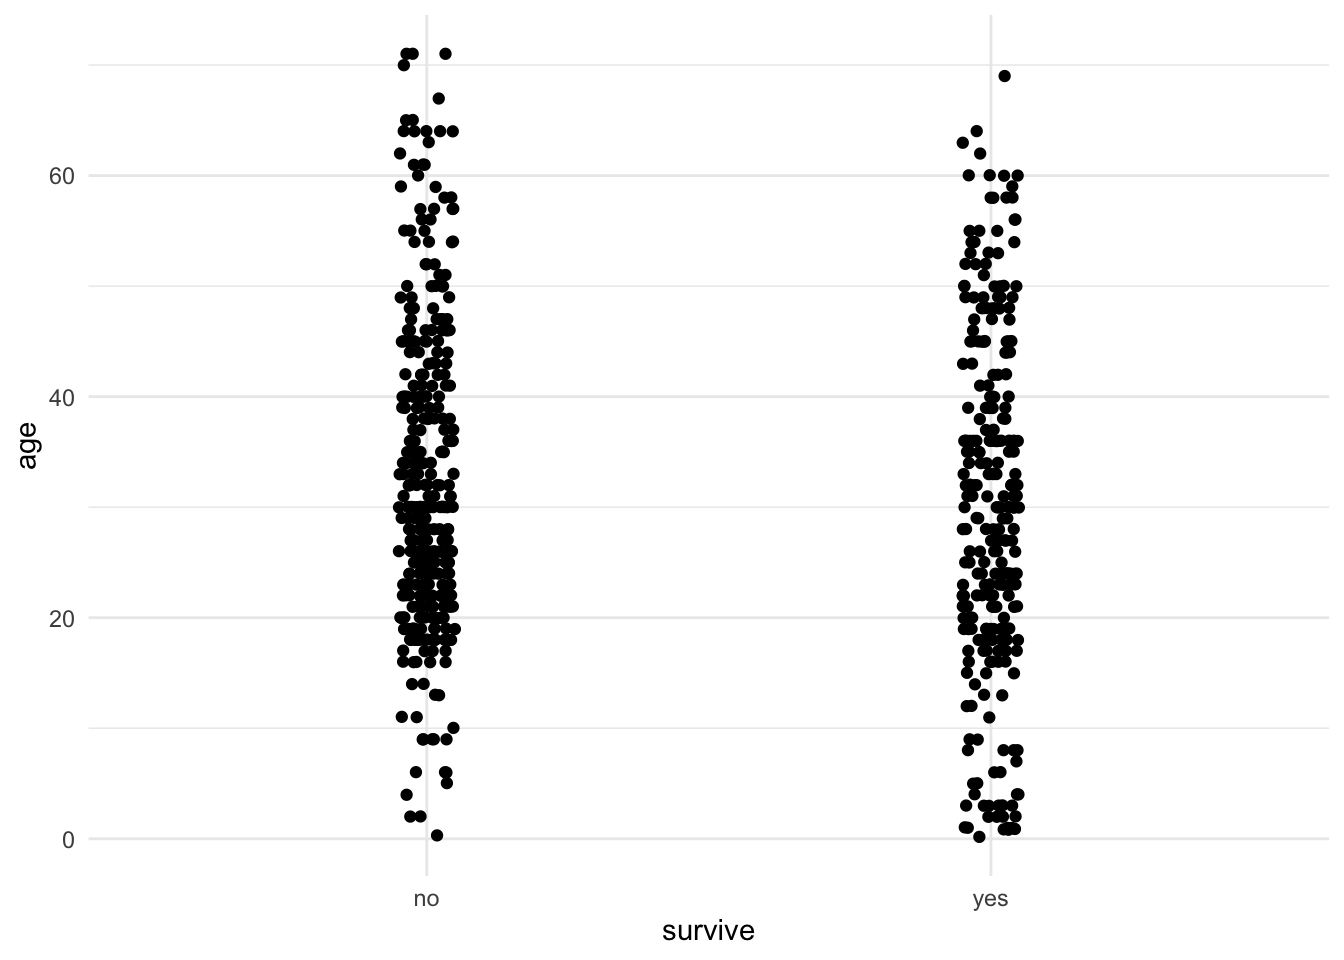
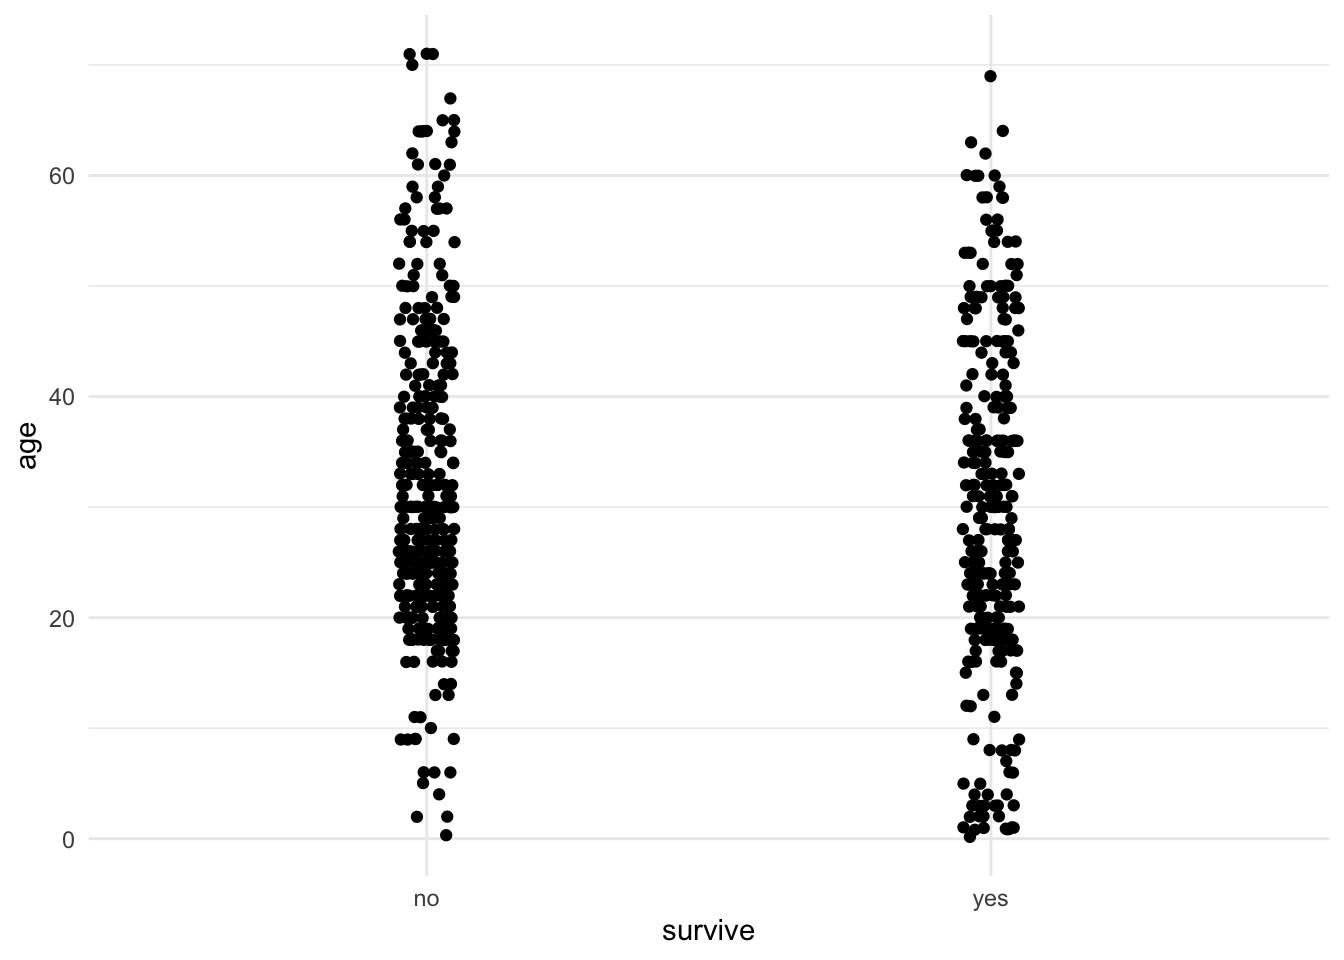
fix links in index and menu

diff --git a/RLabs/02_R_tutorial_Tabular_data.html b/RLabs/02_R_tutorial_Tabular_data.html
@@ -467,13 +467,13 @@ div.tocify {
   </a>
   <ul class="dropdown-menu" role="menu">
     <li>
-      <a href="R_tutorial_Loading_R_and_RStudio.html">0. Loading R and RStudio</a>
+      <a href="00_R_tutorial_Loading_R_and_RStudio.html">0. Loading R and RStudio</a>
     </li>
     <li>
-      <a href="R_tutorial_Intro_to_R.html">1. Intro to R</a>
+      <a href="01_R_tutorial_Intro_to_R.html">1. Intro to R</a>
     </li>
     <li>
-      <a href="R_tutorial_Tabular_data.html">2. Tabular data</a>
+      <a href="02_R_tutorial_Tabular_data.html">2. Tabular data</a>
     </li>
     <li>
       <a href="R_tutorial_Graphics.html">3. Graphics</a>
@@ -790,16 +790,6 @@ tidyverse. Before using the functions in these packages, we need to load
 tidyverse. We do this with the <code>library()</code> function. In the
 console, enter this:</p>
 <div class="sourceCode" id="cb1"><pre class="sourceCode r"><code class="sourceCode r"><span id="cb1-1"><a href="#cb1-1" tabindex="-1"></a><span class="fu">library</span>(tidyverse)</span></code></pre></div>
-<pre><code>## ── Attaching core tidyverse packages ──────────────────────── tidyverse 2.0.0 ──
-## ✔ dplyr     1.1.4     ✔ readr     2.1.5
-## ✔ forcats   1.0.0     ✔ stringr   1.5.1
-## ✔ ggplot2   3.5.2     ✔ tibble    3.3.0
-## ✔ lubridate 1.9.4     ✔ tidyr     1.3.1
-## ✔ purrr     1.1.0     
-## ── Conflicts ────────────────────────────────────────── tidyverse_conflicts() ──
-## ✖ dplyr::filter() masks stats::filter()
-## ✖ dplyr::lag()    masks stats::lag()
-## ℹ Use the conflicted package (&lt;http://conflicted.r-lib.org/&gt;) to force all conflicts to become errors</code></pre>
 <p>If the <code>tidyverse</code> was is installed on your computer
 correctly, the computer will show a brief status message and then will
 be ready to go. If the package is not installed, it will give you an
@@ -848,7 +838,7 @@ survived the accident or not.</p>
 <p>To import a CSV file into R, use the <code>read.csv()</code> function
 as in the following command. (This assumes that you have set the working
 directory to <code>ABDLabs</code>, as we described above.)</p>
-<div class="sourceCode" id="cb3"><pre class="sourceCode r"><code class="sourceCode r"><span id="cb3-1"><a href="#cb3-1" tabindex="-1"></a>titanicData <span class="ot">&lt;-</span> <span class="fu">read.csv</span>(<span class="st">&quot;DataForLabs/titanic.csv&quot;</span>, <span class="at">stringsAsFactors =</span> <span class="cn">TRUE</span>)</span></code></pre></div>
+<div class="sourceCode" id="cb2"><pre class="sourceCode r"><code class="sourceCode r"><span id="cb2-1"><a href="#cb2-1" tabindex="-1"></a>titanicData <span class="ot">&lt;-</span> <span class="fu">read.csv</span>(<span class="st">&quot;DataForLabs/titanic.csv&quot;</span>, <span class="at">stringsAsFactors =</span> <span class="cn">TRUE</span>)</span></code></pre></div>
 <p>This looks for the file called <code>titanic.csv</code> in the folder
 called <code>DataForLabs.</code> Here we have given the name
 <code>titanicData</code> to the object in R that contains all this
@@ -879,7 +869,7 @@ tells the computer where to look for the file.</p>
 <code>read.csv()</code> to look for the file outside your current
 working directory. Reading a file from any location can be done with
 <code>read.csv()</code> like this:</p>
-<div class="sourceCode" id="cb4"><pre class="sourceCode r"><code class="sourceCode r"><span id="cb4-1"><a href="#cb4-1" tabindex="-1"></a>titanicData <span class="ot">&lt;-</span> <span class="fu">read.csv</span>(<span class="st">&quot;/Users/whitlock/Desktop/ABDLabs/DataForLabs/titanic.csv&quot;</span>, <span class="at">stringsAsFactors =</span> <span class="cn">TRUE</span>)</span></code></pre></div>
+<div class="sourceCode" id="cb3"><pre class="sourceCode r"><code class="sourceCode r"><span id="cb3-1"><a href="#cb3-1" tabindex="-1"></a>titanicData <span class="ot">&lt;-</span> <span class="fu">read.csv</span>(<span class="st">&quot;/Users/whitlock/Desktop/ABDLabs/DataForLabs/titanic.csv&quot;</span>, <span class="at">stringsAsFactors =</span> <span class="cn">TRUE</span>)</span></code></pre></div>
 <p><br></p>
 </div>
 </div>
@@ -892,30 +882,30 @@ the characteristics of the data, the <code>summary()</code> and
 <h3><code>summary()</code></h3>
 <p>This function will list all the variables and some summary statistics
 for each variable.</p>
-<div class="sourceCode" id="cb5"><pre class="sourceCode r"><code class="sourceCode r"><span id="cb5-1"><a href="#cb5-1" tabindex="-1"></a><span class="fu">summary</span>(titanicData)</span></code></pre></div>
-<pre><code>##  passenger_class                        name           age         
-##  1st:322         Carlsson,MrFransOlof     :   2   Min.   : 0.1667  
-##  2nd:280         Connolly,MissKate        :   2   1st Qu.:21.0000  
-##  3rd:711         Kelly,MrJames            :   2   Median :30.0000  
-##                  Abbing,MrAnthony         :   1   Mean   :31.1942  
-##                  Abbott,MasterEugeneJoseph:   1   3rd Qu.:41.0000  
-##                  Abbott,MrRossmoreEdward  :   1   Max.   :71.0000  
-##                  (Other)                  :1304   NA&#39;s   :680      
-##         embarked            home_destination     sex      survive  
-##             :493                    :558     female:463   no :864  
-##  Cherbourg  :202   NewYork,NY       : 65     male  :850   yes:449  
-##  Queenstown : 45   London           : 14                           
-##  Southampton:573   Montreal,PQ      : 10                           
-##                    Cornwall/Akron,OH:  9                           
-##                    Paris,France     :  9                           
-##                    (Other)          :648</code></pre>
+<div class="sourceCode" id="cb4"><pre class="sourceCode r"><code class="sourceCode r"><span id="cb4-1"><a href="#cb4-1" tabindex="-1"></a><span class="fu">summary</span>(titanicData)</span></code></pre></div>
+<pre><code>##  passenger_class                        name           age                 embarked  
+##  1st:322         Carlsson,MrFransOlof     :   2   Min.   : 0.1667              :493  
+##  2nd:280         Connolly,MissKate        :   2   1st Qu.:21.0000   Cherbourg  :202  
+##  3rd:711         Kelly,MrJames            :   2   Median :30.0000   Queenstown : 45  
+##                  Abbing,MrAnthony         :   1   Mean   :31.1942   Southampton:573  
+##                  Abbott,MasterEugeneJoseph:   1   3rd Qu.:41.0000                    
+##                  Abbott,MrRossmoreEdward  :   1   Max.   :71.0000                    
+##                  (Other)                  :1304   NA&#39;s   :680                        
+##           home_destination     sex      survive  
+##                   :558     female:463   no :864  
+##  NewYork,NY       : 65     male  :850   yes:449  
+##  London           : 14                           
+##  Montreal,PQ      : 10                           
+##  Cornwall/Akron,OH:  9                           
+##  Paris,France     :  9                           
+##  (Other)          :648</code></pre>
 </div>
 <div id="view" class="section level3">
 <h3><code>View()</code></h3>
 <p>The <code>View()</code> function is a nice way to see the data in a
 spreadsheet-like format. To see the data in <code>titanicData</code>
 with <code>View()</code>, run the following command:</p>
-<div class="sourceCode" id="cb7"><pre class="sourceCode r"><code class="sourceCode r"><span id="cb7-1"><a href="#cb7-1" tabindex="-1"></a><span class="fu">View</span>(titanicData)</span></code></pre></div>
+<div class="sourceCode" id="cb6"><pre class="sourceCode r"><code class="sourceCode r"><span id="cb6-1"><a href="#cb6-1" tabindex="-1"></a><span class="fu">View</span>(titanicData)</span></code></pre></div>
 <p><img src="formula_summaries/VIew_function_titanicData.png"
 width="700" /></p>
 <p>Again, note that the <code>titanicData</code> object has 7 columns
@@ -952,7 +942,7 @@ by itself. We write the name of the data set, followed by a
 <code>$</code>, and then the name of the variable.</p>
 <p>For example, to show a list of the age of all the passengers on the
 Titanic, use</p>
-<div class="sourceCode" id="cb8"><pre class="sourceCode r"><code class="sourceCode r"><span id="cb8-1"><a href="#cb8-1" tabindex="-1"></a>titanicData<span class="sc">$</span>age</span></code></pre></div>
+<div class="sourceCode" id="cb7"><pre class="sourceCode r"><code class="sourceCode r"><span id="cb7-1"><a href="#cb7-1" tabindex="-1"></a>titanicData<span class="sc">$</span>age</span></code></pre></div>
 <p>This will show a vector that has all the values for this variable
 age, one for each individual in the data set.</p>
 <p><br></p>
@@ -965,24 +955,24 @@ easiest way to do this is to simply assign a new vector to a new column
 name, using the <code>$</code>.</p>
 <p>For example, to add the log of age as a column in the
 <code>titanicData</code> data frame, we can write</p>
-<div class="sourceCode" id="cb9"><pre class="sourceCode r"><code class="sourceCode r"><span id="cb9-1"><a href="#cb9-1" tabindex="-1"></a>titanicData<span class="sc">$</span>log_age <span class="ot">&lt;-</span> <span class="fu">log</span>(titanicData<span class="sc">$</span>age)</span></code></pre></div>
+<div class="sourceCode" id="cb8"><pre class="sourceCode r"><code class="sourceCode r"><span id="cb8-1"><a href="#cb8-1" tabindex="-1"></a>titanicData<span class="sc">$</span>log_age <span class="ot">&lt;-</span> <span class="fu">log</span>(titanicData<span class="sc">$</span>age)</span></code></pre></div>
 <p>You can run the command <code>head(titanicData)</code> to see that
 <code>log_age</code> is now a column in <code>titanicData</code>.</p>
-<div class="sourceCode" id="cb10"><pre class="sourceCode r"><code class="sourceCode r"><span id="cb10-1"><a href="#cb10-1" tabindex="-1"></a><span class="fu">head</span>(titanicData)</span></code></pre></div>
-<pre><code>##   passenger_class                                      name     age    embarked
-## 1             1st                 Allen,MissElisabethWalton 29.0000 Southampton
-## 2             1st                  Allison,MissHelenLoraine  2.0000 Southampton
-## 3             1st           Allison,MrHudsonJoshuaCreighton 30.0000 Southampton
-## 4             1st Allison,MrsHudsonJ.C.(BessieWaldoDaniels) 25.0000 Southampton
-## 5             1st                Allison,MasterHudsonTrevor  0.9167 Southampton
-## 6             1st                          Anderson,MrHarry 47.0000 Southampton
-##              home_destination    sex survive     log_age
-## 1                  StLouis,MO female     yes  3.36729583
-## 2 Montreal,PQ/Chesterville,ON female      no  0.69314718
-## 3 Montreal,PQ/Chesterville,ON   male      no  3.40119738
-## 4 Montreal,PQ/Chesterville,ON female      no  3.21887582
-## 5 Montreal,PQ/Chesterville,ON   male     yes -0.08697501
-## 6                  NewYork,NY   male     yes  3.85014760</code></pre>
+<div class="sourceCode" id="cb9"><pre class="sourceCode r"><code class="sourceCode r"><span id="cb9-1"><a href="#cb9-1" tabindex="-1"></a><span class="fu">head</span>(titanicData)</span></code></pre></div>
+<pre><code>##   passenger_class                                      name     age    embarked            home_destination
+## 1             1st                 Allen,MissElisabethWalton 29.0000 Southampton                  StLouis,MO
+## 2             1st                  Allison,MissHelenLoraine  2.0000 Southampton Montreal,PQ/Chesterville,ON
+## 3             1st           Allison,MrHudsonJoshuaCreighton 30.0000 Southampton Montreal,PQ/Chesterville,ON
+## 4             1st Allison,MrsHudsonJ.C.(BessieWaldoDaniels) 25.0000 Southampton Montreal,PQ/Chesterville,ON
+## 5             1st                Allison,MasterHudsonTrevor  0.9167 Southampton Montreal,PQ/Chesterville,ON
+## 6             1st                          Anderson,MrHarry 47.0000 Southampton                  NewYork,NY
+##      sex survive     log_age
+## 1 female     yes  3.36729583
+## 2 female      no  0.69314718
+## 3   male      no  3.40119738
+## 4 female      no  3.21887582
+## 5   male     yes -0.08697501
+## 6   male     yes  3.85014760</code></pre>
 <p>The <code>head()</code> function shows the first 6 rows of a data
 frame or tibble, which is a handy way to check that you understand the
 structure of the data and/or that you have added the new column
@@ -1005,7 +995,7 @@ functions in the tidyverse packages, including
 and an individual is female if that variable has value
 <code>female</code>. We can create a new data frame that includes only
 the data from females with the following command:</p>
-<div class="sourceCode" id="cb12"><pre class="sourceCode r"><code class="sourceCode r"><span id="cb12-1"><a href="#cb12-1" tabindex="-1"></a>titanicDataFemalesOnly <span class="ot">&lt;-</span> <span class="fu">filter</span>(titanicData, sex <span class="sc">==</span> <span class="st">&quot;female&quot;</span>)</span></code></pre></div>
+<div class="sourceCode" id="cb11"><pre class="sourceCode r"><code class="sourceCode r"><span id="cb11-1"><a href="#cb11-1" tabindex="-1"></a>titanicDataFemalesOnly <span class="ot">&lt;-</span> <span class="fu">filter</span>(titanicData, sex <span class="sc">==</span> <span class="st">&quot;female&quot;</span>)</span></code></pre></div>
 <p>This new data frame will include all the same columns as the original
 <code>titanicData</code>, but it will only include the rows for which
 the sex was <code>female</code>.</p>

diff --git a/RLabs/index.html b/RLabs/index.html
@@ -280,13 +280,13 @@ $(document).ready(function () {
   </a>
   <ul class="dropdown-menu" role="menu">
     <li>
-      <a href="R_tutorial_Loading_R_and_RStudio.html">0. Loading R and RStudio</a>
+      <a href="00_R_tutorial_Loading_R_and_RStudio.html">0. Loading R and RStudio</a>
     </li>
     <li>
-      <a href="R_tutorial_Intro_to_R.html">1. Intro to R</a>
+      <a href="01_R_tutorial_Intro_to_R.html">1. Intro to R</a>
     </li>
     <li>
-      <a href="R_tutorial_Tabular_data.html">2. Tabular data</a>
+      <a href="02_R_tutorial_Tabular_data.html">2. Tabular data</a>
     </li>
     <li>
       <a href="R_tutorial_Graphics.html">3. Graphics</a>
@@ -408,10 +408,11 @@ labs) may require working in a group environment.</p>
 <p><br></p>
 <div id="r-tutorials-by-topic" class="section level2">
 <h2>R tutorials by topic</h2>
-<p><a href="R_tutorial_Loading_R_and_RStudio.html">0. Loading R and
+<p><a href="00_R_tutorial_Loading_R_and_RStudio.html">0. Loading R and
 RStudio</a></p>
-<p><a href="R_tutorial_Intro_to_R.html">1. Intro to R</a></p>
-<p><a href="R_tutorial_Tabular_data.html">2. Tabular data in R</a></p>
+<p><a href="01_R_tutorial_Intro_to_R.html">1. Intro to R</a></p>
+<p><a href="02_R_tutorial_Tabular_data.html">2. Tabular data in
+R</a></p>
 <p><a href="R_tutorial_Graphics.html">3. Graphics</a></p>
 <p><a href="R_tutorial_Making_data_files.html">4a. Making data files for
 R</a></p>

diff --git a/RLabs/R_tutorial_Normal_and_sample_means.html b/RLabs/R_tutorial_Normal_and_sample_means.html
@@ -467,13 +467,13 @@ div.tocify {
   </a>
   <ul class="dropdown-menu" role="menu">
     <li>
-      <a href="R_tutorial_Loading_R_and_RStudio.html">0. Loading R and RStudio</a>
+      <a href="00_R_tutorial_Loading_R_and_RStudio.html">0. Loading R and RStudio</a>
     </li>
     <li>
-      <a href="R_tutorial_Intro_to_R.html">1. Intro to R</a>
+      <a href="01_R_tutorial_Intro_to_R.html">1. Intro to R</a>
     </li>
     <li>
-      <a href="R_tutorial_Tabular_data.html">2. Tabular data</a>
+      <a href="02_R_tutorial_Tabular_data.html">2. Tabular data</a>
     </li>
     <li>
       <a href="R_tutorial_Graphics.html">3. Graphics</a>
@@ -684,8 +684,8 @@ distribution</p>
 numbers drawn from a normal distribution with mean 13 and standard
 deviation 4:</p>
 <div class="sourceCode" id="cb6"><pre class="sourceCode r"><code class="sourceCode r"><span id="cb6-1"><a href="#cb6-1" tabindex="-1"></a><span class="fu">rnorm</span>(<span class="at">n =</span> <span class="dv">20</span>, <span class="at">mean =</span> <span class="dv">13</span>, <span class="at">sd =</span> <span class="dv">4</span>)</span></code></pre></div>
-<pre><code>##  [1] 15.069868 15.709834  5.205122 17.342268 12.031558 18.926071 12.634741 12.578918  9.356955 13.591530
-## [11] 14.714557 11.570335 11.588282 15.089399 11.518081 14.446039 11.931864  9.408842 19.402135 14.019974</code></pre>
+<pre><code>##  [1] 10.847327 16.660806 10.475117 14.150716 10.335531 15.177059 21.748991 10.313146 13.661950 14.935631
+## [11] 16.741323 11.362581 14.842819  8.969095 12.186229 13.807421 15.981822  8.645132 12.803302 16.446147</code></pre>
 <p>Let’s look at a QQ plot generated from 100 numbers randomly drawn
 from a normal distribution:</p>
 <div class="sourceCode" id="cb8"><pre class="sourceCode r"><code class="sourceCode r"><span id="cb8-1"><a href="#cb8-1" tabindex="-1"></a>normal_vector <span class="ot">&lt;-</span> <span class="fu">rnorm</span>(<span class="at">n =</span> <span class="dv">100</span>, <span class="at">mean =</span> <span class="dv">13</span>, <span class="at">sd =</span> <span class="dv">4</span>)</span>

diff --git a/RLabs/R_tutorial_Sampling.html b/RLabs/R_tutorial_Sampling.html
@@ -467,13 +467,13 @@ div.tocify {
   </a>
   <ul class="dropdown-menu" role="menu">
     <li>
-      <a href="R_tutorial_Loading_R_and_RStudio.html">0. Loading R and RStudio</a>
+      <a href="00_R_tutorial_Loading_R_and_RStudio.html">0. Loading R and RStudio</a>
     </li>
     <li>
-      <a href="R_tutorial_Intro_to_R.html">1. Intro to R</a>
+      <a href="01_R_tutorial_Intro_to_R.html">1. Intro to R</a>
     </li>
     <li>
-      <a href="R_tutorial_Tabular_data.html">2. Tabular data</a>
+      <a href="02_R_tutorial_Tabular_data.html">2. Tabular data</a>
     </li>
     <li>
       <a href="R_tutorial_Graphics.html">3. Graphics</a>
@@ -674,7 +674,7 @@ randomly chooses integers from a given range. To randomly sample 5
 individuals from 25 possibilities, we can use:</li>
 </ol>
 <div class="sourceCode" id="cb1"><pre class="sourceCode r"><code class="sourceCode r"><span id="cb1-1"><a href="#cb1-1" tabindex="-1"></a><span class="fu">sample.int</span>(<span class="at">n =</span> <span class="dv">25</span>, <span class="at">size =</span> <span class="dv">5</span>)</span></code></pre></div>
-<pre><code>## [1]  7 15 11  8 18</code></pre>
+<pre><code>## [1]  1 14 18 10 22</code></pre>
 <p>This tells R to give us a set of 5 numbers randomly chosen from the
 integers 1 to 25. (When you run this line you will almost certainly get
 a different output. It is randomly choosing numbers, so we expect

diff --git a/RLabs/00_R_tutorial_Loading_R_and_RStudio.html b/RLabs/00_R_tutorial_Loading_R_and_RStudio.html
@@ -362,13 +362,13 @@ div.tocify {
   </a>
   <ul class="dropdown-menu" role="menu">
     <li>
-      <a href="R_tutorial_Loading_R_and_RStudio.html">0. Loading R and RStudio</a>
+      <a href="00_R_tutorial_Loading_R_and_RStudio.html">0. Loading R and RStudio</a>
     </li>
     <li>
-      <a href="R_tutorial_Intro_to_R.html">1. Intro to R</a>
+      <a href="01_R_tutorial_Intro_to_R.html">1. Intro to R</a>
     </li>
     <li>
-      <a href="R_tutorial_Tabular_data.html">2. Tabular data</a>
+      <a href="02_R_tutorial_Tabular_data.html">2. Tabular data</a>
     </li>
     <li>
       <a href="R_tutorial_Graphics.html">3. Graphics</a>

diff --git a/RLabs/01_R_tutorial_Intro_to_R.html b/RLabs/01_R_tutorial_Intro_to_R.html
@@ -467,13 +467,13 @@ div.tocify {
   </a>
   <ul class="dropdown-menu" role="menu">
     <li>
-      <a href="R_tutorial_Loading_R_and_RStudio.html">0. Loading R and RStudio</a>
+      <a href="00_R_tutorial_Loading_R_and_RStudio.html">0. Loading R and RStudio</a>
     </li>
     <li>
-      <a href="R_tutorial_Intro_to_R.html">1. Intro to R</a>
+      <a href="01_R_tutorial_Intro_to_R.html">1. Intro to R</a>
     </li>
     <li>
-      <a href="R_tutorial_Tabular_data.html">2. Tabular data</a>
+      <a href="02_R_tutorial_Tabular_data.html">2. Tabular data</a>
     </li>
     <li>
       <a href="R_tutorial_Graphics.html">3. Graphics</a>

diff --git a/RLabs/R_tutorial_ANOVA.html b/RLabs/R_tutorial_ANOVA.html
@@ -467,13 +467,13 @@ div.tocify {
   </a>
   <ul class="dropdown-menu" role="menu">
     <li>
-      <a href="R_tutorial_Loading_R_and_RStudio.html">0. Loading R and RStudio</a>
+      <a href="00_R_tutorial_Loading_R_and_RStudio.html">0. Loading R and RStudio</a>
     </li>
     <li>
-      <a href="R_tutorial_Intro_to_R.html">1. Intro to R</a>
+      <a href="01_R_tutorial_Intro_to_R.html">1. Intro to R</a>
     </li>
     <li>
-      <a href="R_tutorial_Tabular_data.html">2. Tabular data</a>
+      <a href="02_R_tutorial_Tabular_data.html">2. Tabular data</a>
     </li>
     <li>
       <a href="R_tutorial_Graphics.html">3. Graphics</a>

diff --git a/RLabs/R_tutorial_Comparing_means_of_2_groups.html b/RLabs/R_tutorial_Comparing_means_of_2_groups.html
@@ -467,13 +467,13 @@ div.tocify {
   </a>
   <ul class="dropdown-menu" role="menu">
     <li>
-      <a href="R_tutorial_Loading_R_and_RStudio.html">0. Loading R and RStudio</a>
+      <a href="00_R_tutorial_Loading_R_and_RStudio.html">0. Loading R and RStudio</a>
     </li>
     <li>
-      <a href="R_tutorial_Intro_to_R.html">1. Intro to R</a>
+      <a href="01_R_tutorial_Intro_to_R.html">1. Intro to R</a>
     </li>
     <li>
-      <a href="R_tutorial_Tabular_data.html">2. Tabular data</a>
+      <a href="02_R_tutorial_Tabular_data.html">2. Tabular data</a>
     </li>
     <li>
       <a href="R_tutorial_Graphics.html">3. Graphics</a>

diff --git a/RLabs/R_tutorial_Contingency_analysis.html b/RLabs/R_tutorial_Contingency_analysis.html
@@ -467,13 +467,13 @@ div.tocify {
   </a>
   <ul class="dropdown-menu" role="menu">
     <li>
-      <a href="R_tutorial_Loading_R_and_RStudio.html">0. Loading R and RStudio</a>
+      <a href="00_R_tutorial_Loading_R_and_RStudio.html">0. Loading R and RStudio</a>
     </li>
     <li>
-      <a href="R_tutorial_Intro_to_R.html">1. Intro to R</a>
+      <a href="01_R_tutorial_Intro_to_R.html">1. Intro to R</a>
     </li>
     <li>
-      <a href="R_tutorial_Tabular_data.html">2. Tabular data</a>
+      <a href="02_R_tutorial_Tabular_data.html">2. Tabular data</a>
     </li>
     <li>
       <a href="R_tutorial_Graphics.html">3. Graphics</a>

diff --git a/RLabs/R_tutorial_Correlation_Regression.html b/RLabs/R_tutorial_Correlation_Regression.html
@@ -467,13 +467,13 @@ div.tocify {
   </a>
   <ul class="dropdown-menu" role="menu">
     <li>
-      <a href="R_tutorial_Loading_R_and_RStudio.html">0. Loading R and RStudio</a>
+      <a href="00_R_tutorial_Loading_R_and_RStudio.html">0. Loading R and RStudio</a>
     </li>
     <li>
-      <a href="R_tutorial_Intro_to_R.html">1. Intro to R</a>
+      <a href="01_R_tutorial_Intro_to_R.html">1. Intro to R</a>
     </li>
     <li>
-      <a href="R_tutorial_Tabular_data.html">2. Tabular data</a>
+      <a href="02_R_tutorial_Tabular_data.html">2. Tabular data</a>
     </li>
     <li>
       <a href="R_tutorial_Graphics.html">3. Graphics</a>

diff --git a/RLabs/R_tutorial_Describing_data.html b/RLabs/R_tutorial_Describing_data.html
@@ -467,13 +467,13 @@ div.tocify {
   </a>
   <ul class="dropdown-menu" role="menu">
     <li>
-      <a href="R_tutorial_Loading_R_and_RStudio.html">0. Loading R and RStudio</a>
+      <a href="00_R_tutorial_Loading_R_and_RStudio.html">0. Loading R and RStudio</a>
     </li>
     <li>
-      <a href="R_tutorial_Intro_to_R.html">1. Intro to R</a>
+      <a href="01_R_tutorial_Intro_to_R.html">1. Intro to R</a>
     </li>
     <li>
-      <a href="R_tutorial_Tabular_data.html">2. Tabular data</a>
+      <a href="02_R_tutorial_Tabular_data.html">2. Tabular data</a>
     </li>
     <li>
       <a href="R_tutorial_Graphics.html">3. Graphics</a>

diff --git a/RLabs/R_tutorial_Frequency_data.html b/RLabs/R_tutorial_Frequency_data.html
@@ -467,13 +467,13 @@ div.tocify {
   </a>
   <ul class="dropdown-menu" role="menu">
     <li>
-      <a href="R_tutorial_Loading_R_and_RStudio.html">0. Loading R and RStudio</a>
+      <a href="00_R_tutorial_Loading_R_and_RStudio.html">0. Loading R and RStudio</a>
     </li>
     <li>
-      <a href="R_tutorial_Intro_to_R.html">1. Intro to R</a>
+      <a href="01_R_tutorial_Intro_to_R.html">1. Intro to R</a>
     </li>
     <li>
-      <a href="R_tutorial_Tabular_data.html">2. Tabular data</a>
+      <a href="02_R_tutorial_Tabular_data.html">2. Tabular data</a>
     </li>
     <li>
       <a href="R_tutorial_Graphics.html">3. Graphics</a>